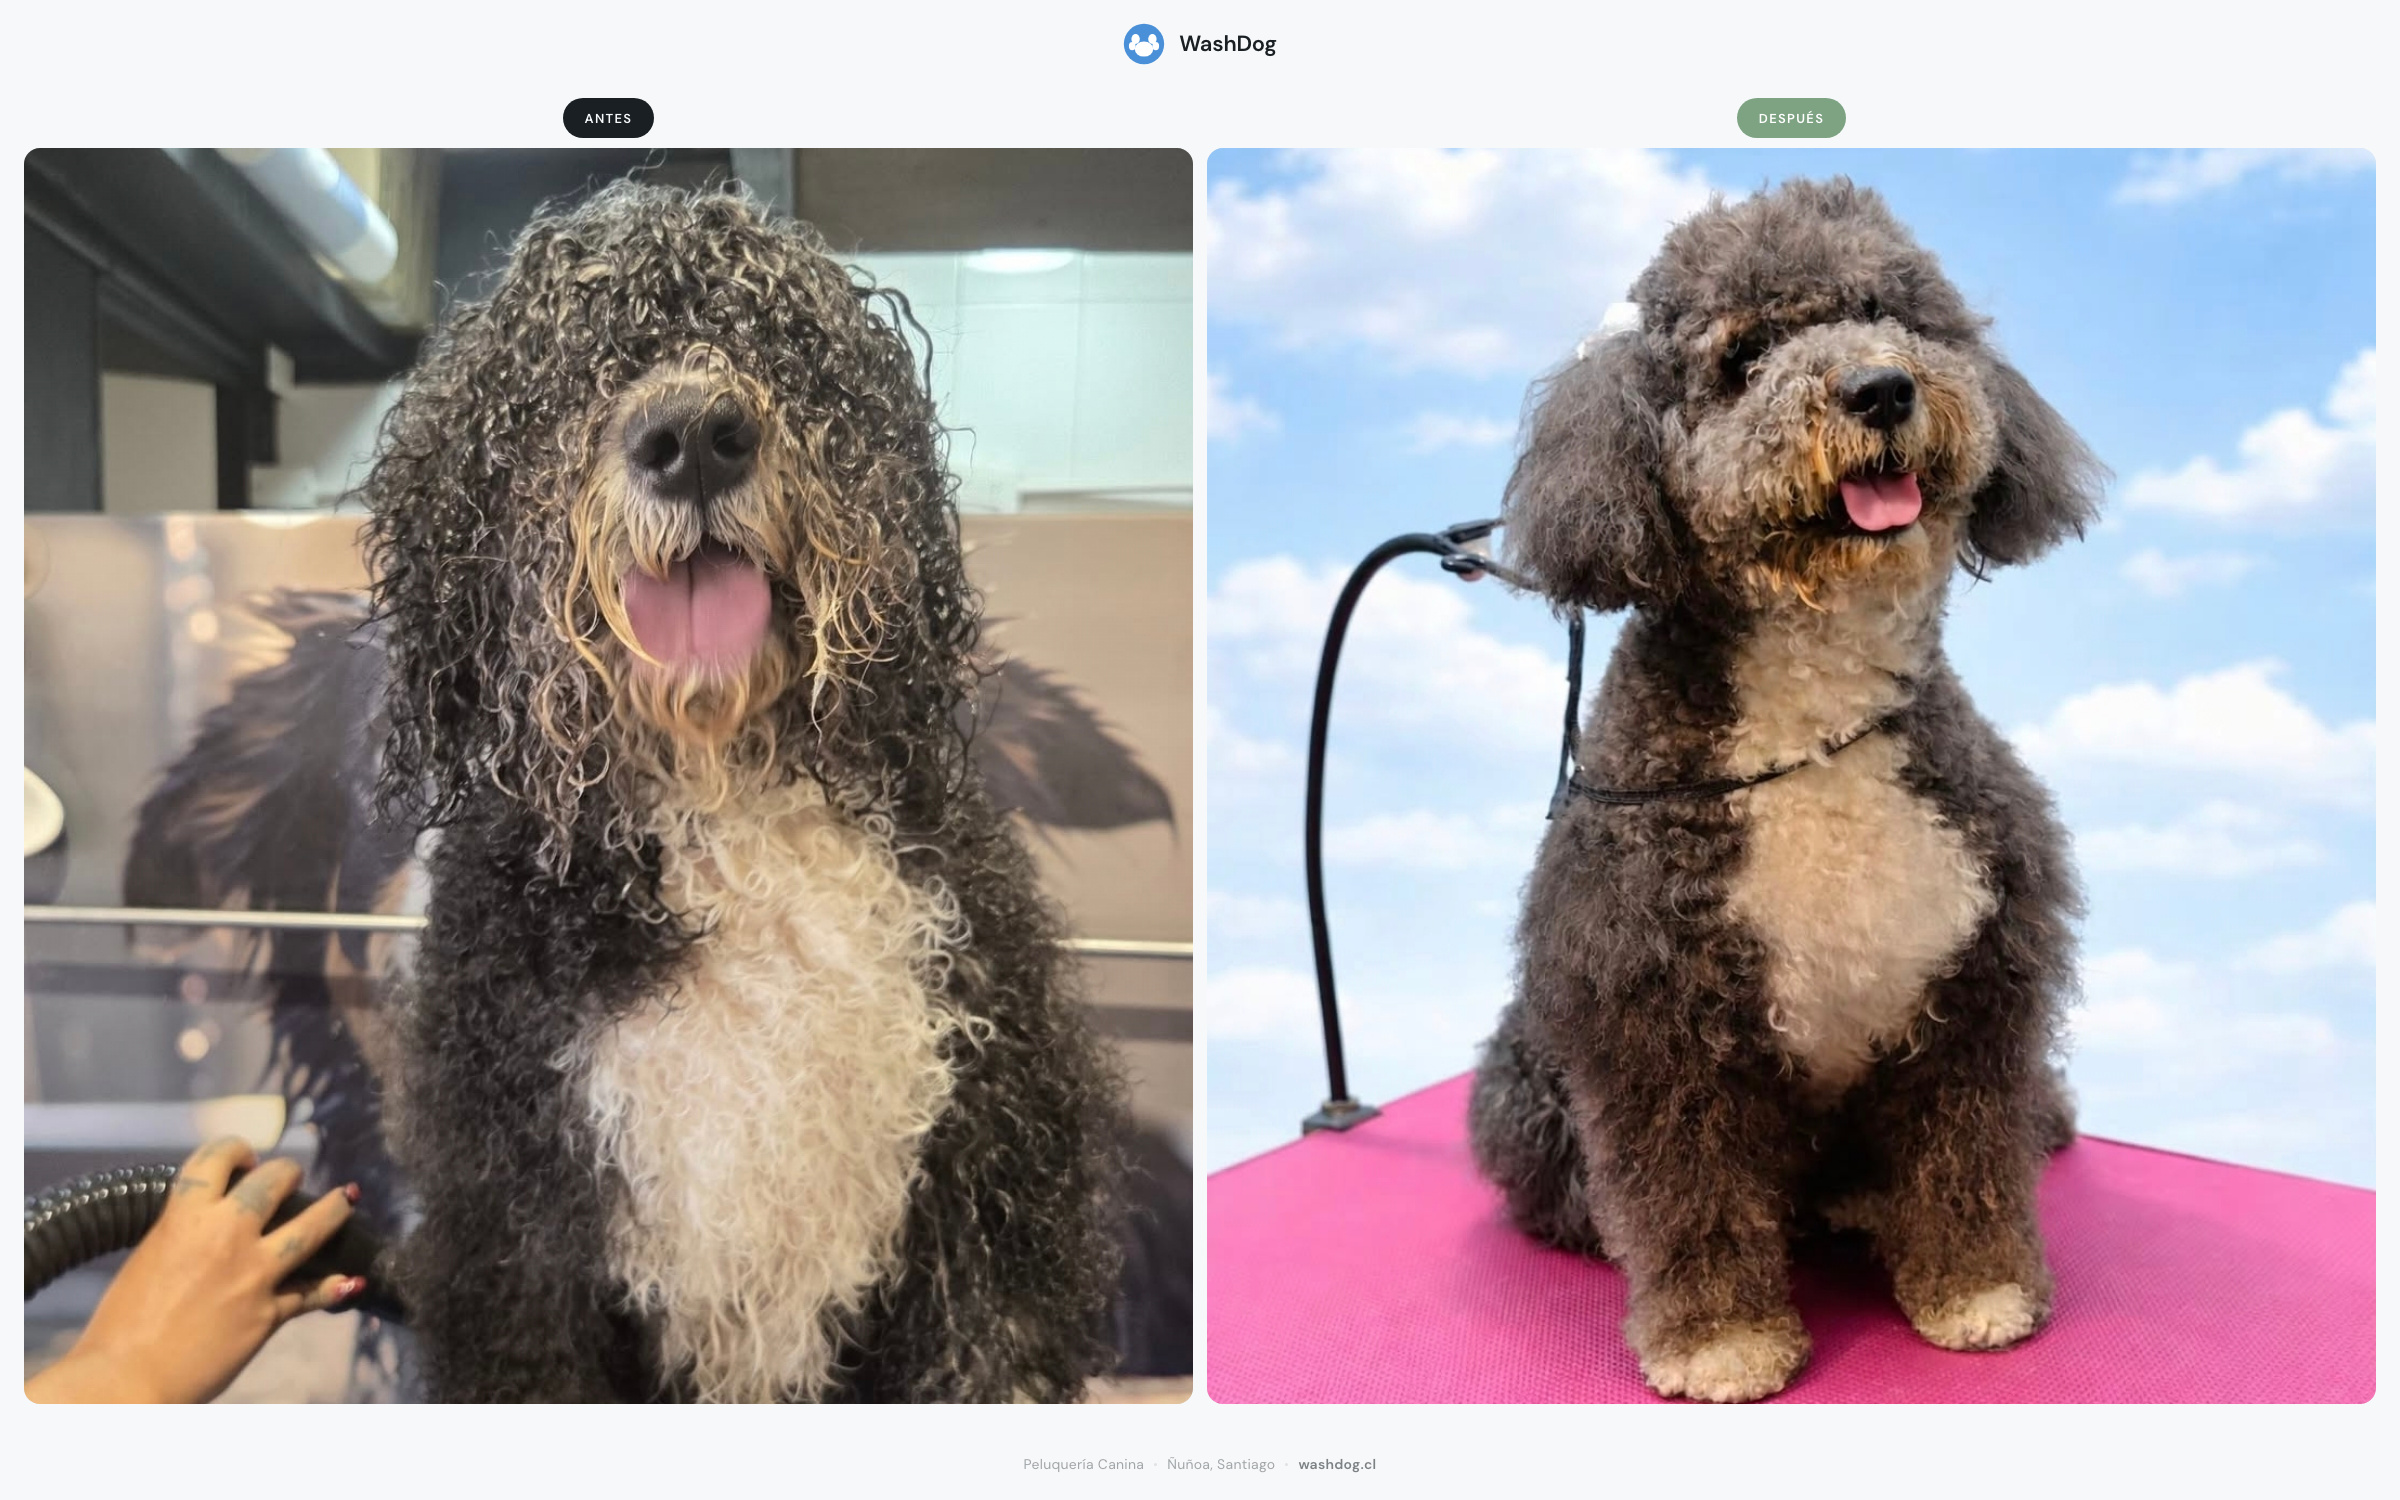
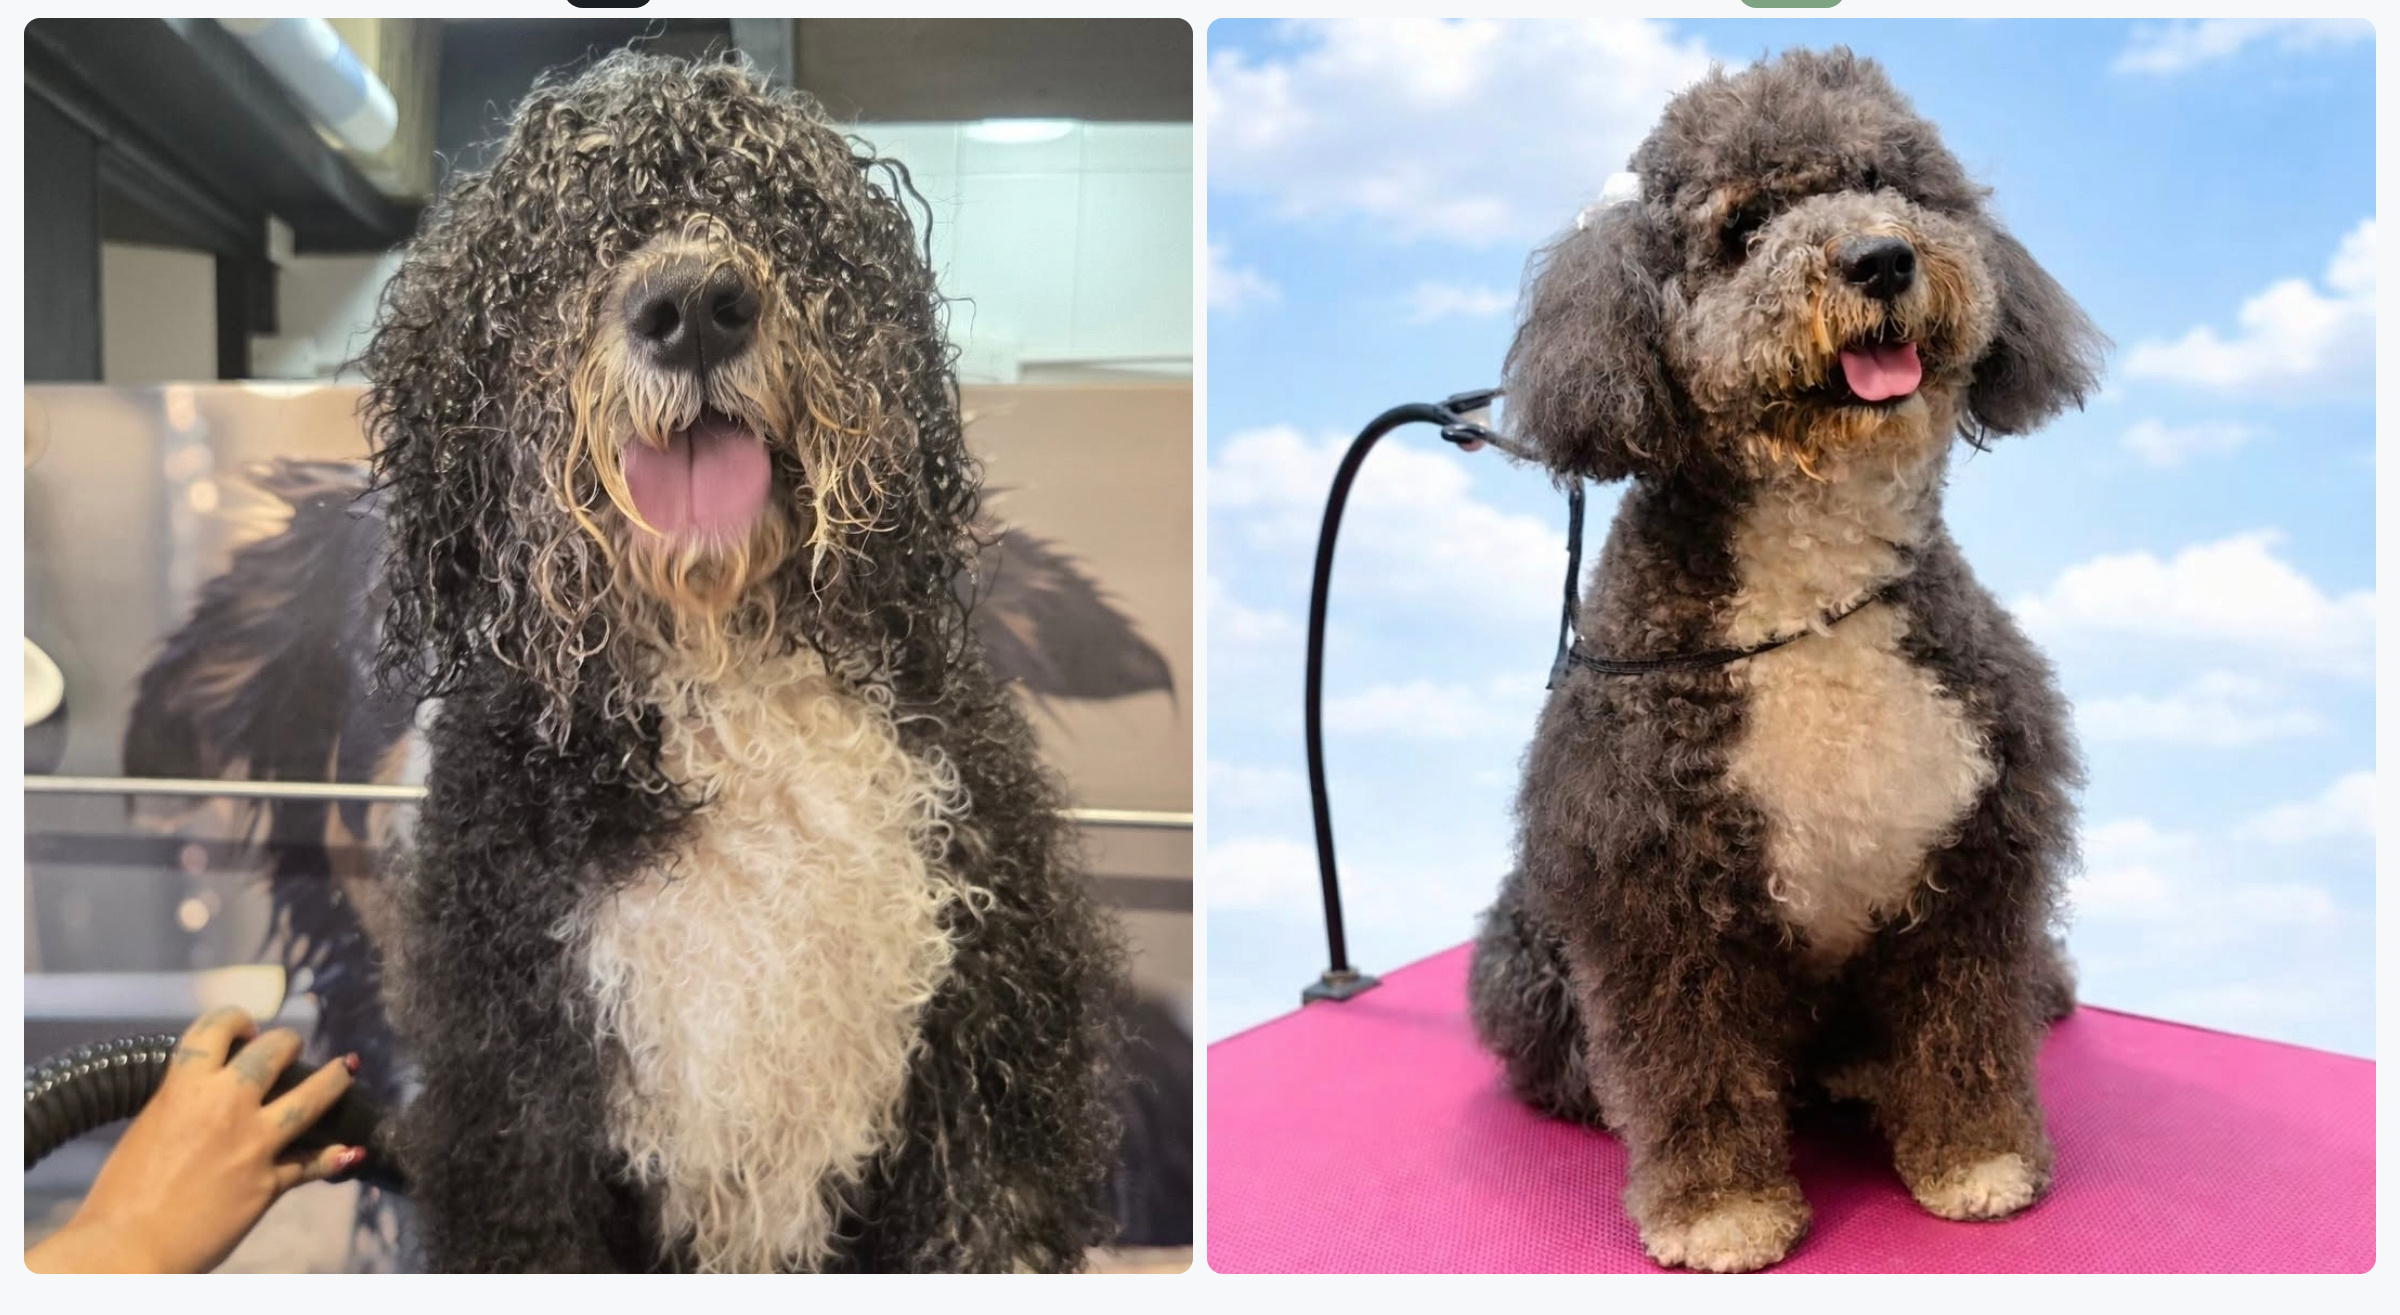
fix(carousel): crop baked-in watermarks from images, restore pills
- Crop 130px top (removes ANTES/DESPUÉS labels + favicon) and 55px
  bottom (removes footer text) from all 5 before/after images
- Update aspect ratio to match new 2400x1315 dimensions
- Restore code-generated Antes/Después pills at bottom corners

diff --git a/src/components/sections/BeforeAfter.tsx b/src/components/sections/BeforeAfter.tsx
@@ -28,7 +28,7 @@ export function BeforeAfter() {
 
         <div className="relative max-w-3xl mx-auto">
           <div className="overflow-hidden rounded-3xl border border-primary/5 shadow-sm">
-            <div className="relative aspect-[8/5] w-full">
+            <div className="relative aspect-[2400/1315] w-full">
               <Image
                 src={CASES[current].src}
                 alt={CASES[current].caption}
@@ -38,16 +38,16 @@ export function BeforeAfter() {
                 priority={current === 0}
               />
 
-              {/* Centered logo overlay */}
-              <div className="absolute top-4 left-1/2 -translate-x-1/2">
-                <div className="inline-flex items-center gap-2 px-4 py-2 rounded-full bg-black/50 backdrop-blur-sm shadow-lg">
-                  <span className="flex items-center justify-center w-6 h-6 rounded-md bg-white/20">
-                    <Icon icon="lucide:dog" className="w-3.5 h-3.5 text-white" />
-                  </span>
-                  <span className="font-serif font-medium text-lg tracking-tight text-white leading-none">
-                    Wash<span className="text-accent-blue">dog.</span>
-                  </span>
-                </div>
+              {/* Antes / Después pills */}
+              <div className="absolute bottom-4 left-4">
+                <span className="inline-flex items-center px-4 py-1.5 rounded-full bg-black/60 backdrop-blur-sm text-white text-sm font-semibold tracking-wide shadow-lg">
+                  Antes
+                </span>
+              </div>
+              <div className="absolute bottom-4 right-4">
+                <span className="inline-flex items-center px-4 py-1.5 rounded-full bg-primary/90 backdrop-blur-sm text-white text-sm font-semibold tracking-wide shadow-lg">
+                  Después
+                </span>
               </div>
             </div>
           </div>
